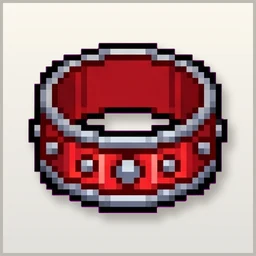
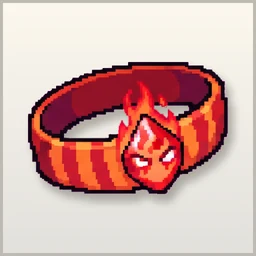
新アイテム3つの絵をGeminiで作成

diff --git a/index.html b/index.html
@@ -241,7 +241,7 @@ body .lib.grid3 .big{font-size:20px;line-height:1.2}.lib.grid3 .why{font-size:11
     <div class="row" id="cloudBtns"></div>
   </div>
   <div class="small" id="diag" style="margin:8px 0;color:var(--hp3);word-break:break-all"></div>
-  <div class="small" style="margin:4px 0 16px;text-align:center;color:var(--dim)">ばん 11030831</div>
+  <div class="small" style="margin:4px 0 16px;text-align:center;color:var(--dim)">ばん 11030855</div>
 </section>
 
 <!-- お店 -->
@@ -385,14 +385,14 @@ body .lib.grid3 .big{font-size:20px;line-height:1.2}.lib.grid3 .why{font-size:11
   window.addEventListener('error', function (e) { __showErr((e.message || 'エラー') + ' (' + String(e.filename || '').split('/').pop().split('?')[0] + ':' + e.lineno + ')'); });
   window.addEventListener('unhandledrejection', function (e) { __showErr('非同期のエラー：' + ((e.reason && (e.reason.message || e.reason.code)) || e.reason)); });
 </script>
-<script src="data.js?v=11030831"></script>
-<script src="stories.js?v=11030831"></script>
-<script src="engine.js?v=11030831"></script>
-<script src="collab.js?v=11030831"></script>
-<script src="battle.js?v=11030831"></script>
-<script src="multi.js?v=11030831"></script>
-<script src="store.js?v=11030831"></script>
-<script src="cloud.js?v=11030831"></script>
-<script src="app.js?v=11030831"></script>
+<script src="data.js?v=11030855"></script>
+<script src="stories.js?v=11030855"></script>
+<script src="engine.js?v=11030855"></script>
+<script src="collab.js?v=11030855"></script>
+<script src="battle.js?v=11030855"></script>
+<script src="multi.js?v=11030855"></script>
+<script src="store.js?v=11030855"></script>
+<script src="cloud.js?v=11030855"></script>
+<script src="app.js?v=11030855"></script>
 </body>
 </html>
